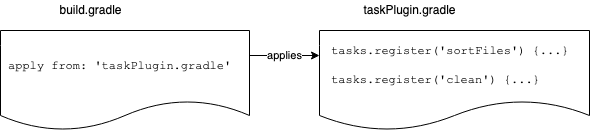
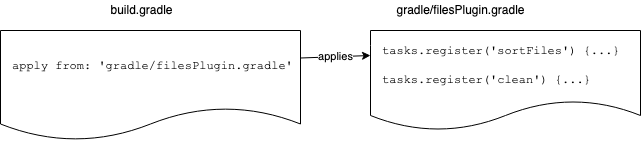
Feature/local script (#13)
* Update local script example
* Add local script example projects

diff --git a/script-plugin/local-script-plugin-example/README.md b/script-plugin/local-script-plugin-example/README.md
@@ -9,9 +9,8 @@ proper plugin you can extract build logic to local Gradle script files to separa
 
 This example builds on top of previous project that was used for creating [Gradle tasks](../../task/file-tasks-assignment-done).
 
-Compared to the task assignment all the logic was extracted to [taskPlugin.gradle](taskPlugin.gradle) file.
-Only thing being done in the main [build.gradle](build.gradle) script file is to apply local script plugin taskPlugin.
-
+Compared to the task assignment all the logic is extracted to [gradle/filesPlugin.gradle](gradle/filesPlugin.gradle) file.
+Only thing being done in the main [build.gradle](build.gradle) script file is to apply local script plugin filesPlugin.
 
 ![Local Script Plugin](readme-content/local-script-plugin.png)
 
@@ -19,9 +18,7 @@ Only thing being done in the main [build.gradle](build.gradle) script file is to
 
 ### Default
 
-By default, always **build.gradle** in the root of the project will be processed by Gradle. 
-
-
+By default, always **build.gradle** in the root of the project will be processed by Gradle.
 
 ### Specify build file in settings.gradle
 
@@ -29,7 +26,7 @@ You can define [project build filename](https://docs.gradle.org/current/javadoc/
 
 **settings.gradle**
 ```
-rootProject.buildFileName = 'taskPlugin.gradle'
+rootProject.buildFileName = 'gradle/filesPlugin.gradle'
 ```
 
 ### Specify build file over an CLI option (Deprecated)
@@ -37,9 +34,8 @@ rootProject.buildFileName = 'taskPlugin.gradle'
 To execute taskPlugin script file directly use following command (Will be deprecated in 8.0)
 
 ```
-./gradlew sF -b taskPlugin.gradle
+./gradlew sF -b gradle/filesPlugin.gradle
 ```
-
 
 ## Resources
 
@@ -48,3 +44,13 @@ To execute taskPlugin script file directly use following command (Will be deprec
 [Gradle CLI - Environment Options (Gradle Userguide)](https://docs.gradle.org/current/userguide/command_line_interface.html#sec:environment_options)
 
 [ProjectDescriptor (Gradle API Documentation)](https://docs.gradle.org/current/javadoc/org/gradle/api/initialization/ProjectDescriptor.html#setBuildFileName-java.lang.String-)
+
+### Examples
+
+Public GitHub examples using local Gradle script plugins:
+
+| Project  | Description |
+| ------------- | ------------- |
+| **<a href="https://github.com/kurron/open-guide-jvm-builds" target="_blank">kurron/open-guide-jvm-builds</a>** |  Main <a href="https://github.com/kurron/open-guide-jvm-builds/blob/master/build.gradle" target="_blank">gradle.build</a> file uses Gradle scripts inside of <a href="https://github.com/kurron/open-guide-jvm-builds/tree/master/gradle" target="_blank">gradle/</a> directory. There are scripts that set up Spring Boot framework, Spock testing, AWS libraries for cloud computing, Cucumber and many more.  |
+| **<a href="https://github.com/mapbox/mapbox-events-android" target="_blank">mapbox/mapbox-events-android</a>** | Example of **mapbox** local script plugin applications. It collects data and location information from the mobile device when using the mapbox service. Main <a href="https://github.com/mapbox/mapbox-events-android/blob/main/build.gradle#L42" target="_blank">build.gradle</a> uses Gradle scripts inside of <a href="https://github.com/mapbox/mapbox-events-android/tree/main/gradle" target="_blank">gradle/</a> directory.<p>You can observe chained references of build:<br/> <a href="https://github.com/mapbox/mapbox-events-android/blob/92b695dabb51be90fcc6d4e5c773e36b066abd22/libcore/build.gradle#L55" target="_blank">scriptsmapbox-events-android/libcore/build.gradle</a> --> <a href="https://github.com/mapbox/mapbox-events-android/blob/92b695dabb51be90fcc6d4e5c773e36b066abd22/gradle/publish.gradle" target="_blank">gradle/publish.gradle</a> --> <a href="https://github.com/mapbox/mapbox-events-android/blob/92b695dabb51be90fcc6d4e5c773e36b066abd22/gradle/artifact-settings.gradle" target="_blank">gradle/artifact-settings.gradle</a></p><p>Reusing one scrip plugin from <a href="https://github.com/mapbox/mapbox-events-android/search?q=dependencies.gradle" target="_blank">multiple scripts</a></p>|
+| **<a href="https://github.com/line/armeria" target="_blank">line/armeria</a>** | Microservice framework for multiple protocols application frameworks. Example of a very complex setup for local gradle scripts of **line/ameria** project. Main <a href="https://github.com/line/armeria/blob/master/build.gradle#L25" target="_blank">build.gradle</a> applies only one local Gradle script <a href="https://github.com/line/armeria/blob/master/gradle/scripts/build-flags.gradle" target="_blank">/gradle/scripts/build-flags.gradle</a>, which then does a heavy lifting. |
